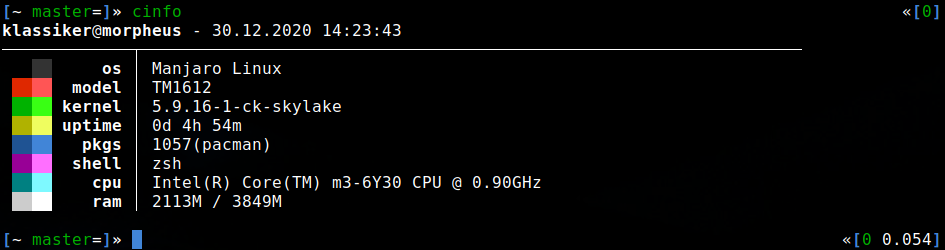
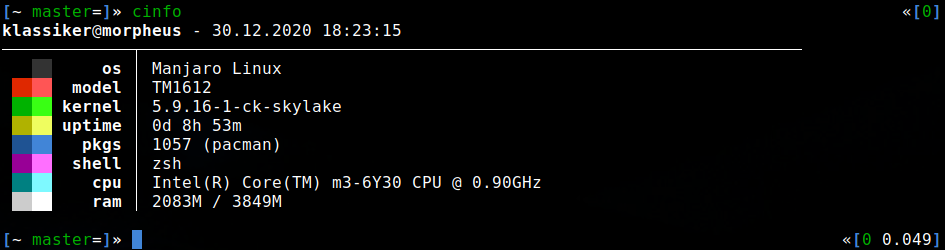
help updated and structure optimized

diff --git a/cinfo.c b/cinfo.c
@@ -2,7 +2,7 @@
  * path:       /home/klassiker/.local/share/repos/cinfo/cinfo.c
  * author:     klassiker [mrdotx]
  * github:     https://github.com/mrdotx/cinfo
- * date:       2020-12-30T14:17:10+0100
+ * date:       2020-12-30T18:22:14+0100
  */
 
 #include <stdio.h>
@@ -14,8 +14,8 @@
   Usage:\n\
     cinfo [-a]\n\n\
   Settings:\n\
-    without given settings, colored version is used\n\
-    [-a] = ascii without colors\n\n\
+    without given settings, start colored version\n\
+    [-a] = plain ascii without colors\n\n\
   Examples:\n\
     cinfo\n\
     cinfo -a"
@@ -31,28 +31,17 @@
 #define cyan "\x1b[36m"
 #define white "\x1b[37m"
 
-int day,
-    hour,
-    min,
-    sec,
-    pacman,
-    ramavailable,
-    ramtotal;
-
 char user[50],
      host[50],
+     zeit[17],
      os[50],
-     model[50],
-     modelversion[25],
+     model[75],
      kernel[50],
-     shell[15],
-     cpu[50];
-
-char lineleft[] = "─────────────",
-     linedivider[] = "┬",
-     lineright[] = "──────────────────────────────────────────────────────────────────",
-     divider[] = "│",
-     blocks[] = "██";
+     uptime[50],
+     packages[12],
+     shell[6],
+     cpu[50],
+     ram[10];
 
 int fexists(const char *fname)
 {
@@ -81,6 +70,22 @@ void detectUser()
     }
 }
 
+void detectTime()
+{
+    time_t raw;
+    struct tm * part;
+    time(&raw);
+    part = localtime(&raw);
+
+    sprintf(zeit, "%02d.%02d.%d %02d:%02d:%02d", \
+            part->tm_mday, \
+            part->tm_mon+1, \
+            part->tm_year+1900, \
+            part->tm_hour, \
+            part->tm_min, \
+            part->tm_sec);
+}
+
 void detectDistro()
 {
     FILE *distroName = popen("cat /etc/*-release \
@@ -89,6 +94,32 @@ void detectDistro()
 
     fscanf(distroName, "%[^\n]s", os);
     fclose(distroName);
+}
+
+void detectModel()
+{
+    char modelname[50] = "",
+         modelversion[25] = "";
+
+    if (fexists("/sys/devices/virtual/dmi/id/product_name") == 1)
+    {
+        FILE *productName = fopen("/sys/devices/virtual/dmi/id/product_name", "r");
+
+        fscanf(productName, "%[^\n]s", modelname);
+        fclose(productName);
+    } else {
+        strcpy(modelname, "not found");
+    }
+
+    if (fexists("/sys/devices/virtual/dmi/id/product_version") == 1)
+    {
+        FILE *productVersion = fopen("/sys/devices/virtual/dmi/id/product_version", "r");
+
+        fscanf(productVersion, "%s", modelversion);
+        fclose(productVersion);
+    }
+
+    sprintf(model, "%s %s", modelname, modelversion);
 }
 
 void detectKernel()
@@ -102,25 +133,38 @@ void detectKernel()
     }
 }
 
-void detectModel()
+void detectUptime()
 {
-    if (fexists("/sys/devices/virtual/dmi/id/product_name") == 1)
+    int sec,
+        day,
+        hour,
+        min;
+
+    if (fexists("/proc/uptime") == 1)
     {
-        FILE *productName = fopen("/sys/devices/virtual/dmi/id/product_name", "r");
+        FILE *pathUptime = fopen("/proc/uptime", "r");
 
-        fscanf(productName, "%[^\n]s", model);
-        fclose(productName);
-    } else {
-        strcpy(model, "not found");
+        fscanf(pathUptime, "%d", &sec);
+        fclose(pathUptime);
+
+        day = (sec/60/60/24);
+        hour = (sec/60/60%24);
+        min = (sec/60%60);
+
+        sprintf(uptime, "%dd %dh %dm", day, hour, min);
     }
+}
 
-    if (fexists("/sys/devices/virtual/dmi/id/product_version") == 1)
-    {
-        FILE *productVersion = fopen("/sys/devices/virtual/dmi/id/product_version", "r");
+void detectPackages()
+{
+    int pacman;
 
-        fscanf(productVersion, "%s", modelversion);
-        fclose(productVersion);
-    }
+    FILE *packageman = popen("pacman -Q | wc -l", "r");
+
+    fscanf(packageman, "%d", &pacman);
+    fclose(packageman);
+
+    sprintf(packages, "%d (pacman)", pacman);
 }
 
 void detectShell()
@@ -129,14 +173,6 @@ void detectShell()
 
     fscanf(shellpath, "%s", shell);
     fclose(shellpath);
-}
-
-void detectPackages()
-{
-    FILE *packageman = popen("pacman -Q | wc -l", "r");
-
-    fscanf(packageman, "%d", &pacman);
-    fclose(packageman);
 }
 
 void detectCPU()
@@ -154,6 +190,9 @@ void detectCPU()
 
 void detectRAM()
 {
+    int ramavailable,
+        ramtotal;
+
     if (fexists("/proc/meminfo") == 1)
     {
         FILE *available = popen("cat /proc/meminfo \
@@ -170,27 +209,21 @@ void detectRAM()
 
         ramavailable = ((ramtotal-ramavailable)/1024);
         ramtotal = (ramtotal/1024);
+
+        sprintf(ram, "%dM / %dM", ramavailable, ramtotal);
     }
 }
 
-void detectUptime()
+int main(int argc, char *argv[])
 {
-    if (fexists("/proc/uptime") == 1)
-    {
-        FILE *pathUptime = fopen("/proc/uptime", "r");
+    char lineleft[] = "─────────────",
+         linedivider[] = "┬",
+         lineright[] = "──────────────────────────────────────────────────────────────────",
+         divider[] = "│",
+         blocks[] = "██";
 
-        fscanf(pathUptime, "%d", &sec);
-        fclose(pathUptime);
-
-        day = (sec/60/60/24);
-        hour = (sec/60/60%24);
-        min = (sec/60%60);
-    }
-}
-
-void getSysinfo()
-{
     detectUser();
+    detectTime();
     detectDistro();
     detectModel();
     detectKernel();
@@ -199,16 +232,6 @@ void getSysinfo()
     detectShell();
     detectCPU();
     detectRAM();
-}
-
-int main(int argc, char *argv[])
-{
-    time_t t;
-    struct tm * zeit;
-    time(&t);
-    zeit = localtime(&t);
-
-    getSysinfo();
 
     if (argc > 1)
     {
@@ -219,40 +242,40 @@ int main(int argc, char *argv[])
             strcpy(lineright, "-----------------------------------------------------------------------");
             strcpy(divider, "|");
 
-            printf("%s@%s - %02d.%02d.%04d %02d:%02d:%02d\n", user, host, zeit->tm_mday, zeit->tm_mon+1, zeit->tm_year+1900, zeit->tm_hour, zeit->tm_min, zeit->tm_sec);
+            printf("%s@%s - %s\n", user, host, zeit);
             printf("%s%s%s\n", lineleft, linedivider, lineright);
 
             printf("     os %s %s\n", divider, os);
-            printf("  model %s %s %s\n", divider, model, modelversion);
+            printf("  model %s %s\n", divider, model);
             printf(" kernel %s %s\n", divider, kernel);
-            printf(" uptime %s %dd %dh %dm\n", divider, day, hour, min);
-            printf("   pkgs %s %d(pacman)\n", divider, pacman);
+            printf(" uptime %s %s\n", divider, uptime);
+            printf("   pkgs %s %s\n", divider, packages);
             printf("  shell %s %s\n", divider, shell);
             printf("    cpu %s %s\n", divider, cpu);
-            printf("    ram %s %dM / %dM\n\n", divider, ramavailable, ramtotal);
+            printf("    ram %s %s\n\n", divider, ram);
         } else if (strcmp(argv[1],"-h") == 0) {
             printf("%s\n\n", help);
         }
     } else {
-        printf("%s%s%s@%s%s%s - %02d.%02d.%04d %02d:%02d:%02d\n", bold, user, reset, bold, host, reset, zeit->tm_mday, zeit->tm_mon+1, zeit->tm_year+1900, zeit->tm_hour, zeit->tm_min, zeit->tm_sec);
+        printf("%s%s%s@%s%s%s - %s\n", bold, user, reset, bold, host, reset, zeit);
         printf("%s%s%s\n", lineleft, linedivider, lineright);
 
         printf(" %s%s%s%s%s", black, blocks, bold, blocks, reset);
         printf("%s     os %s%s %s\n", bold, divider, reset, os);
         printf(" %s%s%s%s%s", red, blocks, bold, blocks, reset);
-        printf("%s  model %s%s %s %s\n", bold, divider, reset, model, modelversion);
+        printf("%s  model %s%s %s\n", bold, divider, reset, model);
         printf(" %s%s%s%s%s", green, blocks, bold, blocks, reset);
         printf("%s kernel %s%s %s\n", bold, divider, reset, kernel);
         printf(" %s%s%s%s%s", yellow, blocks, bold, blocks, reset);
-        printf("%s uptime %s%s %dd %dh %dm\n", bold, divider, reset, day, hour, min);
+        printf("%s uptime %s%s %s\n", bold, divider, reset, uptime);
         printf(" %s%s%s%s%s", blue, blocks, bold, blocks, reset);
-        printf("%s   pkgs %s%s %d(pacman)\n", bold, divider, reset, pacman);
+        printf("%s   pkgs %s%s %s\n", bold, divider, reset, packages);
         printf(" %s%s%s%s%s", magenta, blocks, bold, blocks, reset);
         printf("%s  shell %s%s %s\n", bold, divider, reset, shell);
         printf(" %s%s%s%s%s", cyan, blocks, bold, blocks, reset);
         printf("%s    cpu %s%s %s\n", bold, divider, reset, cpu);
         printf(" %s%s%s%s%s", white, blocks, bold, blocks, reset);
-        printf("%s    ram %s%s %dM / %dM\n\n", bold, divider, reset, ramavailable, ramtotal);
+        printf("%s    ram %s%s %s\n\n", bold, divider, reset, ram);
     }
     return 0;
 }
